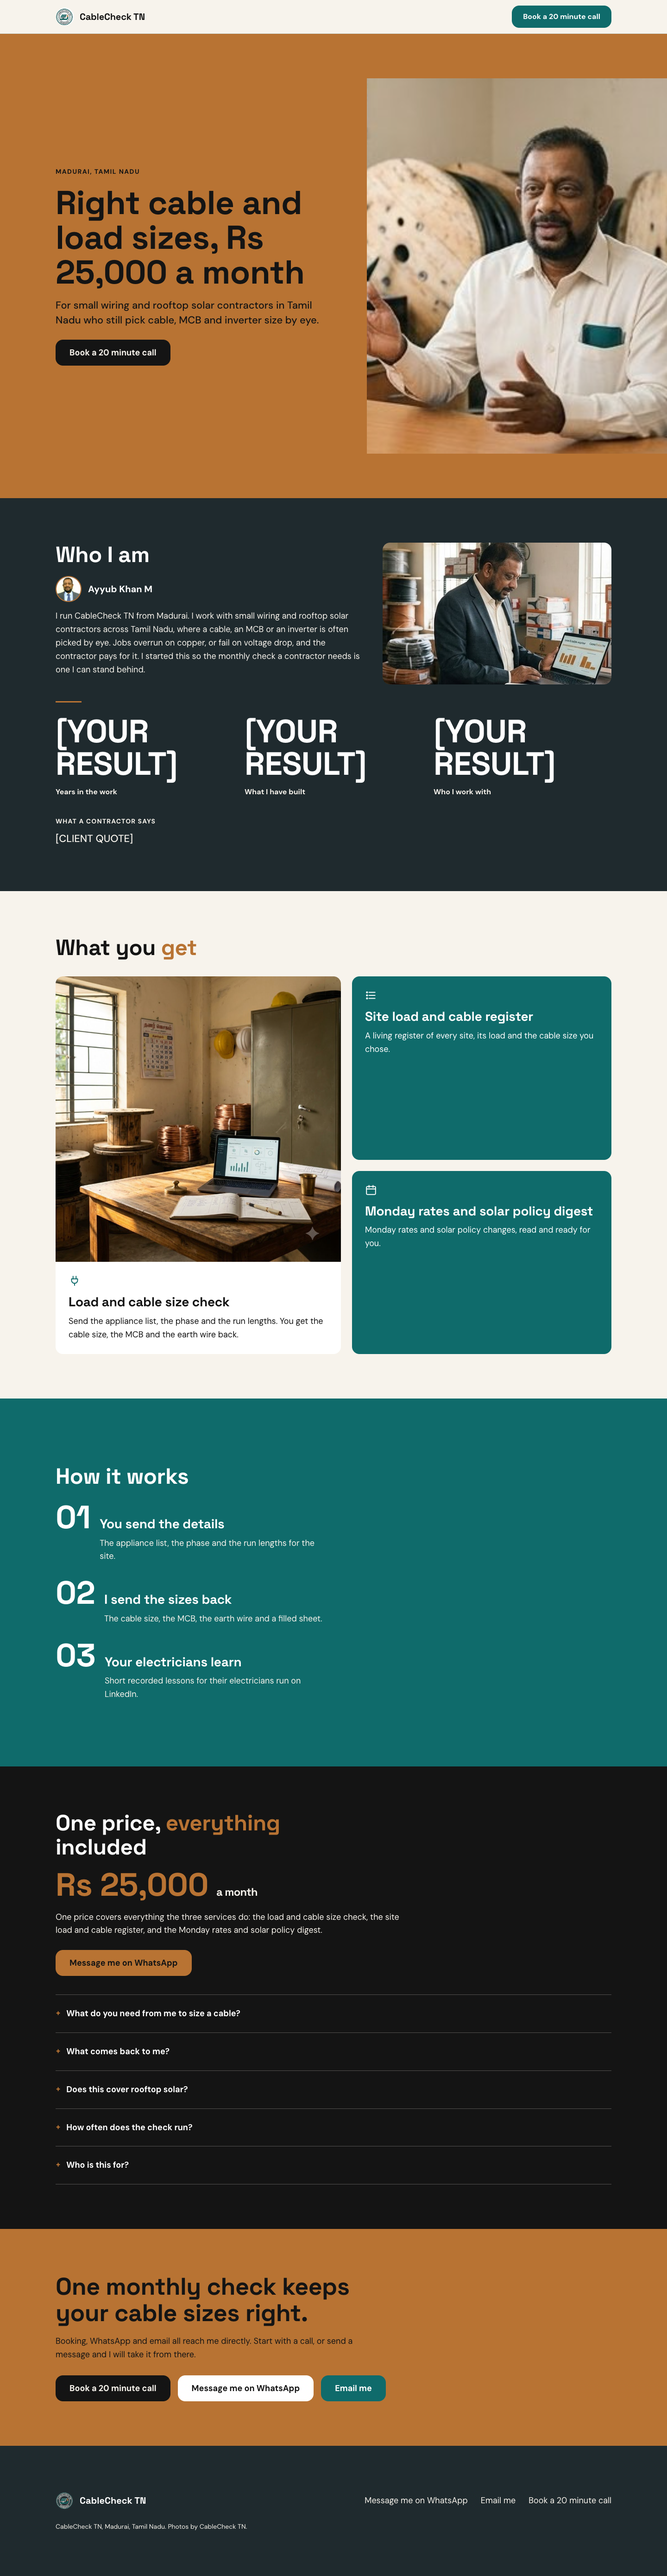
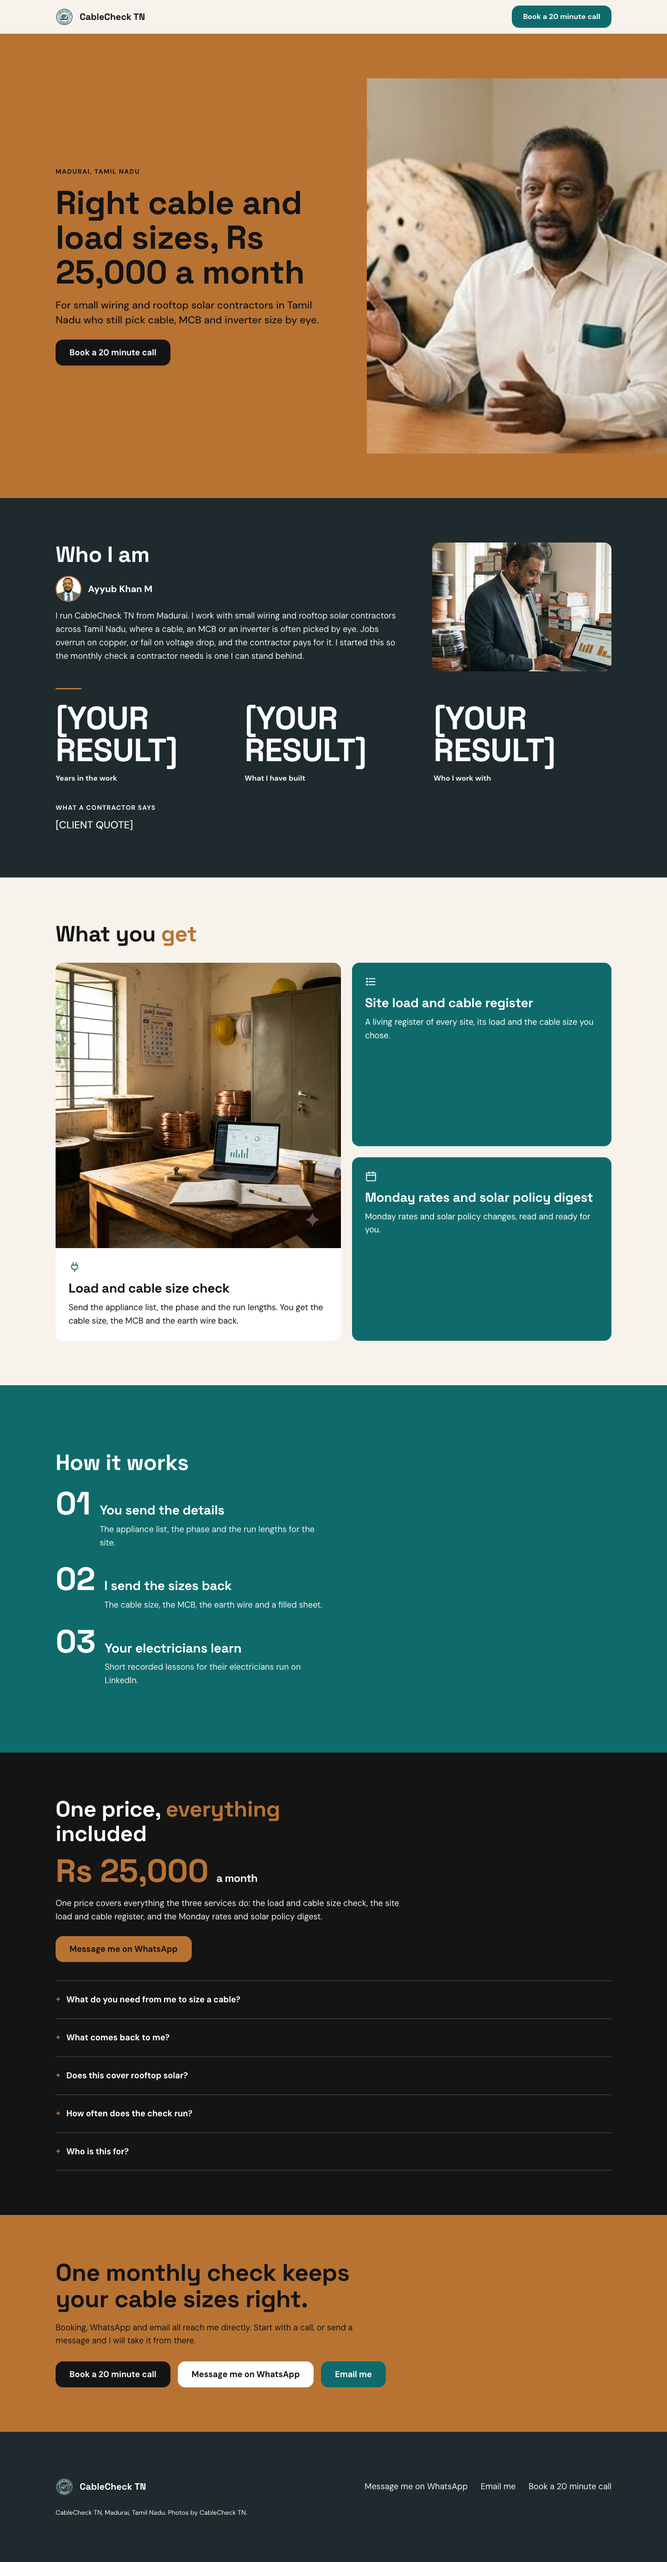
Photo at a third width, price written twice only, refreshed shots

diff --git a/index.html b/index.html
@@ -4,7 +4,7 @@
 <meta charset="utf-8">
 <meta name="viewport" content="width=device-width, initial-scale=1">
 <title>CableCheck TN | Load and cable size checks, Madurai</title>
-<meta name="description" content="A monthly load and cable size check for small wiring and rooftop solar contractors in Tamil Nadu, served online from Madurai. Rs 25,000 a month.">
+<meta name="description" content="A monthly load and cable size check for small wiring and rooftop solar contractors in Tamil Nadu, served online from Madurai.">
 <link rel="icon" type="image/png" href="images/logo.png">
 <link rel="preconnect" href="https://fonts.googleapis.com">
 <link rel="preconnect" href="https://fonts.gstatic.com" crossorigin>
@@ -101,7 +101,7 @@
   .proof h2{ color:var(--white); }
   h2{ font-size:var(--h2); line-height:1.1; font-weight:800; margin:0 0 20px; max-width:22ch; }
   .word{ color:var(--copper); }
-  .proof-top{ display:grid; grid-template-columns:1.35fr 1fr; gap:40px; align-items:start; }
+  .proof-top{ display:grid; grid-template-columns:2fr 1fr; gap:40px; align-items:start; }
   .who-name{ display:flex; align-items:center; gap:14px; margin:0 0 16px; font-size:20px; font-weight:700; color:var(--white); }
   .avatar{ width:56px; height:56px; border-radius:50%; object-fit:cover; border:2px solid var(--copper); }
   .who p{ max-width:60ch; }
@@ -366,7 +366,7 @@
         </details>
         <details>
           <summary>How often does the check run?</summary>
-          <p>Every month. That is what the Rs 25,000 a month covers.</p>
+          <p>Every month. That is what the monthly price covers.</p>
         </details>
         <details>
           <summary>Who is this for?</summary>

diff --git a/REPORT.md b/REPORT.md
@@ -113,6 +113,11 @@ Where the brief was specific and the file was silent, I followed the brief: the 
 **booking first, then WhatsApp, then email** (requirement 12), and the FAQ is **five `<details>`**
 (requirement 11) even though the file suggests three one-line answers.
 
+On "write the price once": the file requires the price inside the hero H1 (section 1) and written
+once in the price section (section 5), so the figure `Rs 25,000 a month` appears in exactly those two
+places and nowhere else on the page. The FAQ no longer repeats it. The working photo sits beside the
+"who I am" block at about a third of the content width, as requirement 10 asks.
+
 ## What I would tell the next person
 
 - Open `index.html` in a browser, not the repo, to see the page.
